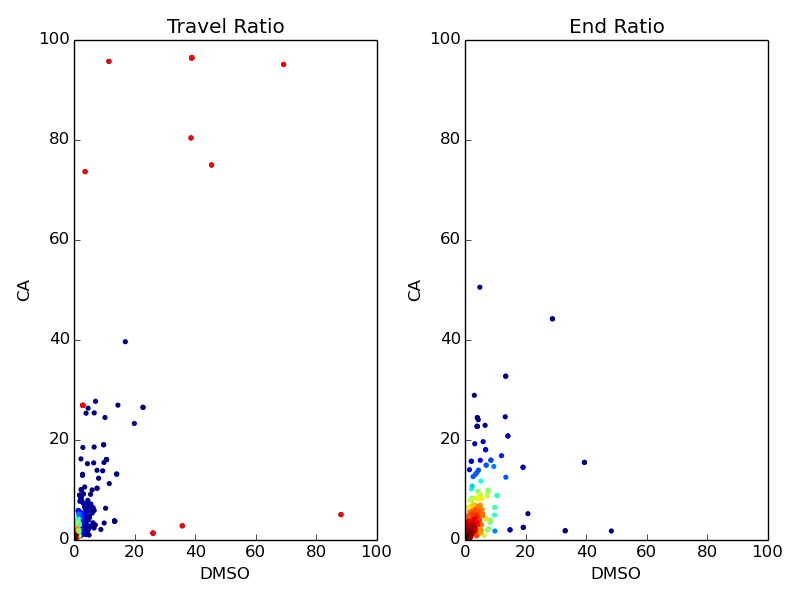
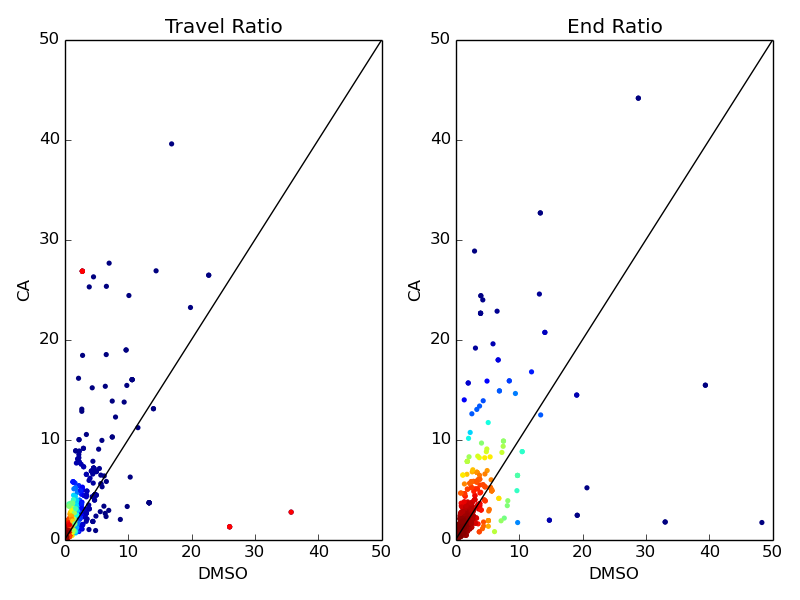
updates

diff --git a/src/master_writer.py b/src/master_writer.py
@@ -268,8 +268,8 @@ def run(DMSOgenes,DMSOTSS,DMSOEND,CAgenes,CATSS,CAEND,filedir,figuredir):
     ax1.get_xaxis().tick_bottom()
     ax1.get_yaxis().tick_left()
     #ax1.plot([0,1/slope1],[intercept1,1],color = 'r')
-    ax1.set_xlim([0, 50])
-    ax1.set_ylim([0, 50])
+    ax1.set_xlim([0, 20])
+    ax1.set_ylim([0, 20])
     ax1.plot([0,50.0],[0,50.0],color='k')
     ax2 = F3.add_subplot(122)
     xy = np.vstack([ERx,ERy])
@@ -281,8 +281,8 @@ def run(DMSOgenes,DMSOTSS,DMSOEND,CAgenes,CATSS,CAEND,filedir,figuredir):
     ax2.set_xlabel('DMSO')
     ax2.get_xaxis().tick_bottom()
     ax2.get_yaxis().tick_left()
-    ax2.set_xlim([0, 50])
-    ax2.set_ylim([0, 50])
+    ax2.set_xlim([0, 20])
+    ax2.set_ylim([0, 20])
     #ax2.plot([0,1/slope2],[intercept2,1],color = 'r')
     ax2.plot([0,50],[0,50],color = 'k')
     plt.savefig(figuredir + '/Scatter_reflected_moregenes.png')
